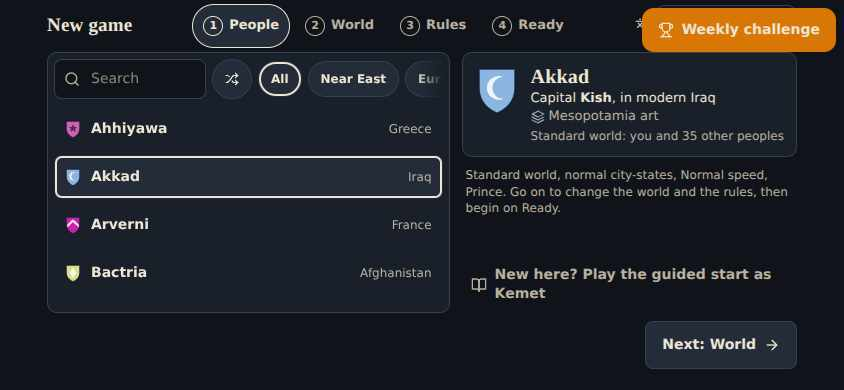
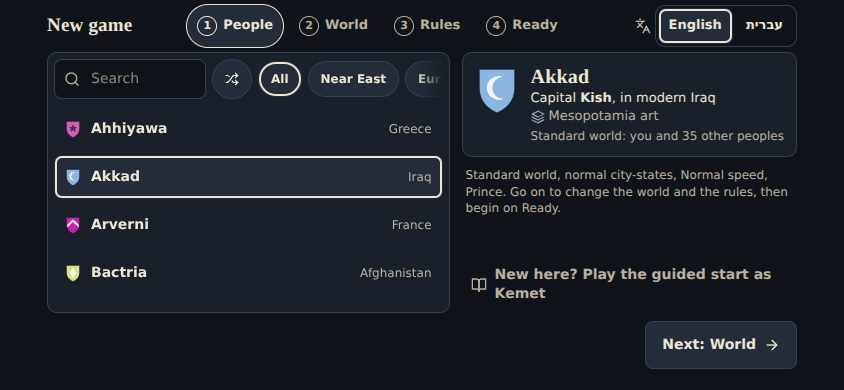
iPhone check: script, shots and README

Changed region(s): [[0.7393, 0.0, 1.0, 0.1538], [0.2156, 0.0, 0.6777, 0.1231]]

diff --git a/plans/game/iphone-check-2026-10-21/README.md b/plans/game/iphone-check-2026-10-21/README.md
@@ -1,0 +1,36 @@
+# iPhone landscape check, 21 Oct 2026
+
+Emulation only: Chromium with an iPhone profile (844x390, scale 3, touch, iOS Safari user agent, safe-area
+insets 47/47/0/21 through CDP, real touch events). It is NOT a real iPhone: no real Safari (WebKit), no real GPU,
+no real memory limits. The machine was overloaded (load 13 to 17 on 4 cores) and the battle worker timed out
+twice, so several checks could not finish. Script: `scripts/ui/iphone-check.mjs`.
+
+| Check | en | he | Notes |
+|---|---|---|---|
+| Coach (3 steps) shows and advances | pass | not run | steps differ, closes after the last |
+| Circle select, Select mode | pass (run 1) | not run | later runs failed only because the worker timed out under load |
+| Circle select, double-tap then drag | FIXED in code, not re-verified in a browser | not run | real code bug, see below |
+| Draw a path moves the squads | pass | not run | |
+| Hold for help (tech card) | not verified | not run | hold did not open the sheet in the one run that got there (box was overloaded); battle HUD has no hold-help target in this base |
+| Safe areas on the start and world screens (47 px inset) | pass (chips, Goals, map-mode buttons, top bar content start at 47 px) | not run | `en-w2-world.jpg` |
+| Weekly challenge sheet | pass before the lead hid the button; sheet and banner padding fixed | not run | |
+| World Congress sheet | not verified | not verified | screenshots timed out |
+| Glossary people entry (history note, uncertain mark) | not verified | not verified | |
+| Crisis banner | not verified | not verified | code uses `--safe-start`, so it follows the inset |
+
+## Double-tap lasso: code bug, fixed
+The screen rebuilds the gesture recognizer whenever its handlers change, and a tap changes the selection, so the
+"last tap" memory was lost and the second tap never counted as a double-tap. The memory now lives outside the
+recognizer (`memory` argument of `createGestureRecognizer`, kept in a ref by `TacticalBattleScreen`).
+Test: `src/battle/input/gestures.test.js` ("rebuilt between the taps").
+
+## Layout fixes (screenshot QA list)
+Fixed: game speed "NaN turns" (the field is `turnLimit`); war label and Peoples card fall back to the id when a
+nation has no name; research chip shows the tech name when there is no turn count; Research choice card stays
+clear of the rail and End Turn on desktop; age strip cells narrower and stacked on a phone, goal names wrap;
+needs-you chips cannot reach the search button; top bar date, turn and research chip are bidi isolated; challenge
+sheet and banner respect safe areas; the QA shot script now opens the Empire War section correctly (the
+"blank Empire tab" was the script firing the alias `military` as a raw tab id, not a game bug).
+Not fixed: World lens button touching the dock edge when a wide panel is open (needs a layout rethink);
+"notch" findings for chips, rail and map buttons (they already use `--safe-start`/`--safe-end`; the QA shots had
+no inset); goals list under the age strip is a scroll position, not a clip.
